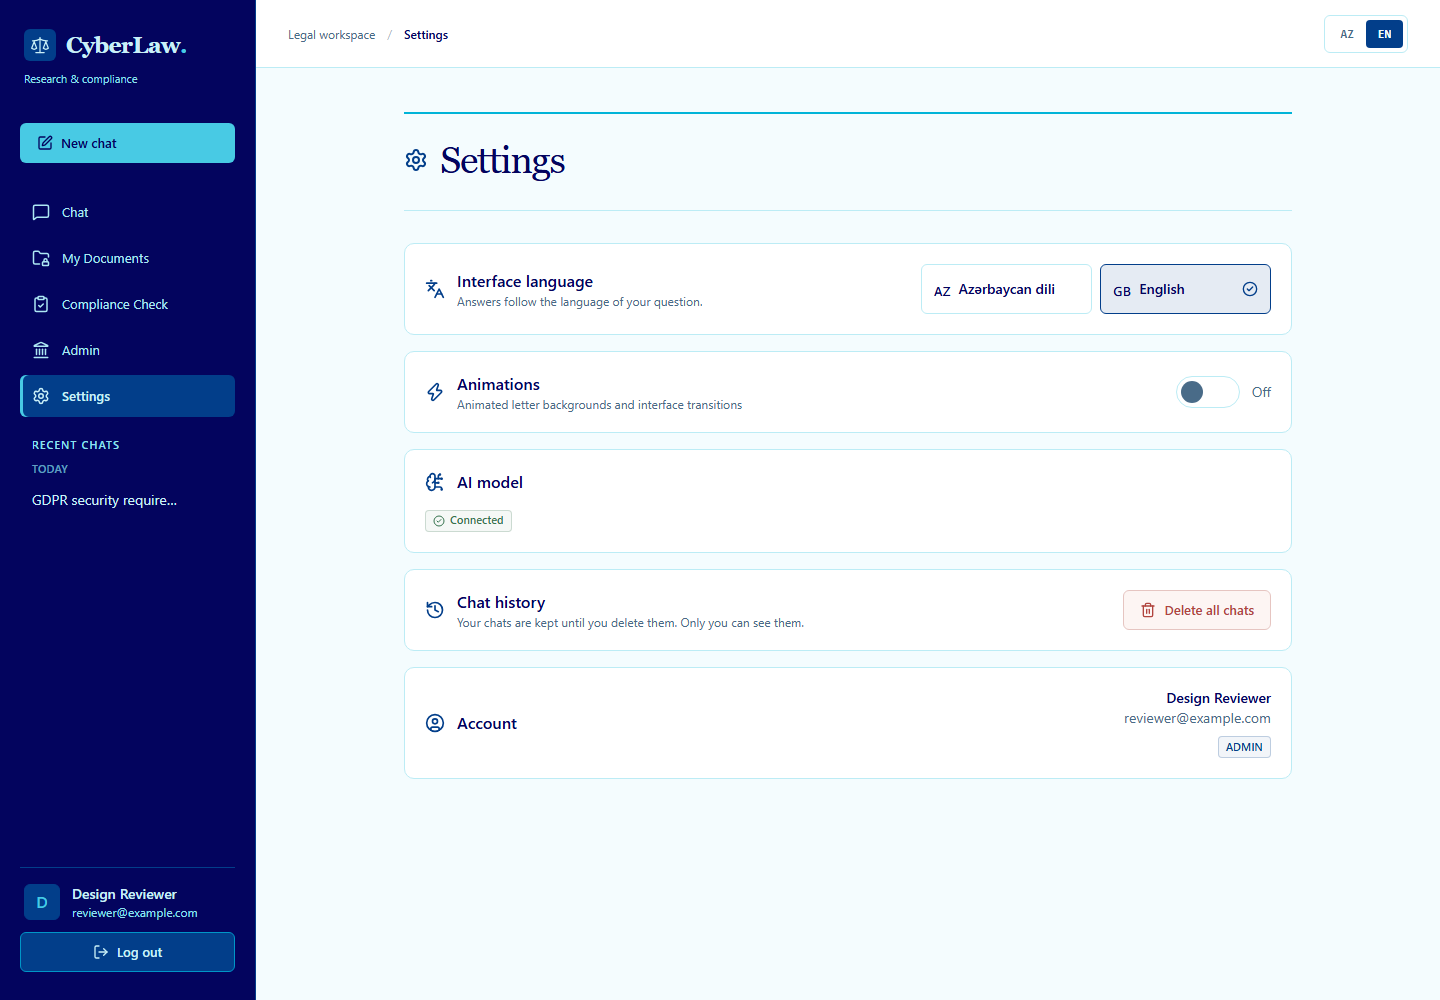
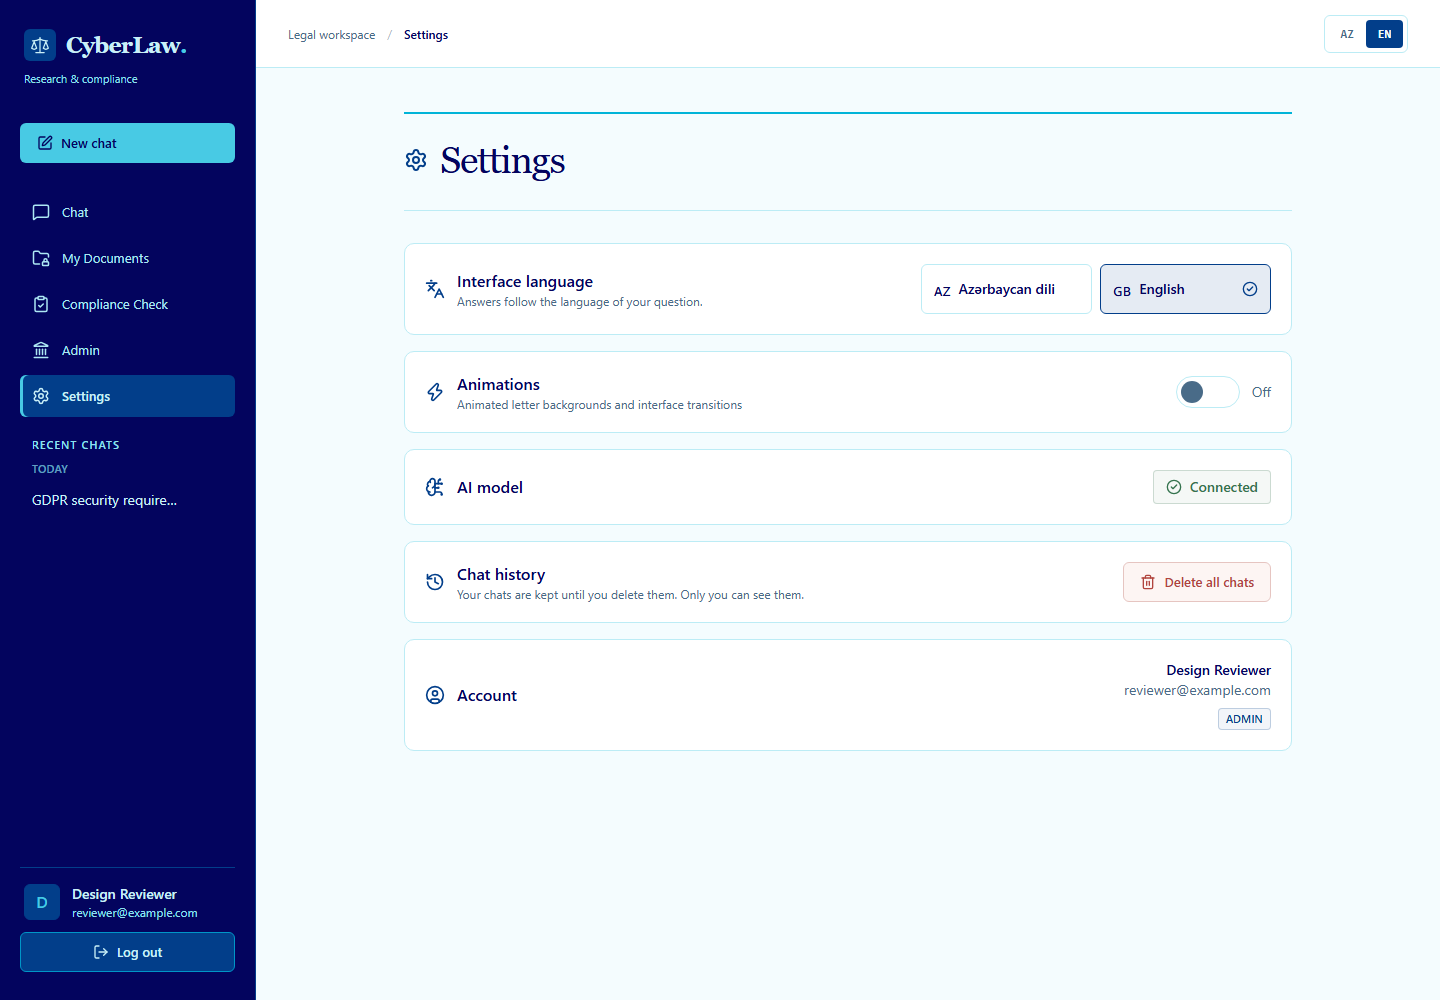
Enlarge and right-align the AI connection badge

diff --git a/frontend/src/pages/SettingsPage.tsx b/frontend/src/pages/SettingsPage.tsx
@@ -71,12 +71,12 @@ export function SettingsPage() {
           <span className="text-sm text-muted">{animations ? t('settings.on') : t('settings.off')}</span>
         </Section>
 
-        {isAdmin && <Section icon={<BrainCircuit className="h-5 w-5" />} title={t('settings.aiStatus')}>
+        {isAdmin && <Section inline icon={<BrainCircuit className="h-5 w-5" />} title={t('settings.aiStatus')}>
           {aiConfigured === null ? (
             <span className="text-sm text-muted">{t('common.loading')}</span>
           ) : aiConfigured ? (
-            <span className="chip text-acid">
-              <CircleCheck className="h-3 w-3" /> {t('settings.aiOk')}
+            <span className="chip gap-2 px-3 py-1.5 text-sm text-acid">
+              <CircleCheck className="h-4 w-4" /> {t('settings.aiOk')}
             </span>
           ) : (
             <span className="chip text-amber">

diff --git a/design-preview/README.md b/design-preview/README.md
@@ -39,7 +39,7 @@ Focused browser checks: [composer-verification.json](composer-verification.json)
 
 Language choices, the animation toggle, Delete all chats and account details align to the right of their descriptions on larger screens. Account details are right-aligned on desktop. On phones the controls and details stack below their descriptions and align left, with the two language buttons arranged vertically.
 
-The AI model connection panel and its connection-status request are limited to admin accounts. Log out is a bordered button with its icon and label centered in both the desktop sidebar and mobile drawer.
+The AI model connection panel and its connection-status request are limited to admin accounts. Its larger Connected badge aligns to the right on larger screens, following the other settings rows. Log out is a bordered button with its icon and label centered in both the desktop sidebar and mobile drawer.
 
 Role, layout and interaction checks: [settings-verification.json](settings-verification.json). History/account placement and the delete confirmation flow: [settings-alignment-verification.json](settings-alignment-verification.json).
 
